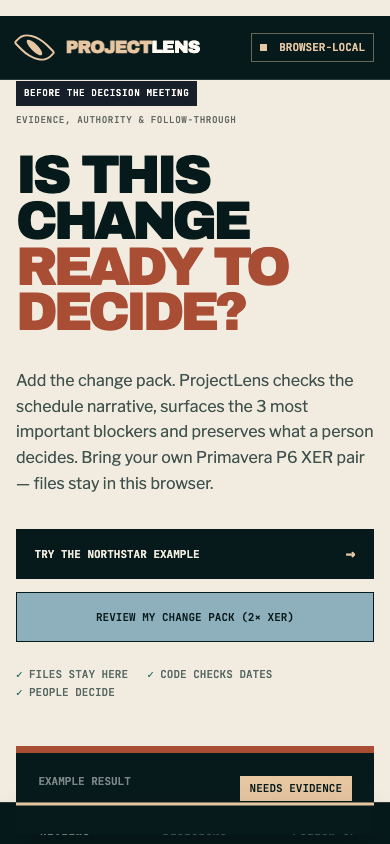
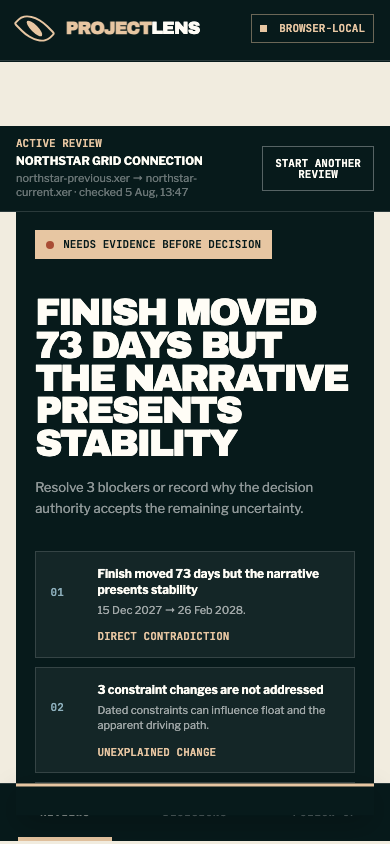
fix: surface cited precedents and repair change-assurance UX
Make the RAG gate readable and default-visible, restore the demo intake step, add retrieve skeletons and a five-step flow, raise dark-card contrast, and stop repeating the human-gate label on every card.

diff --git a/docs/change-assurance.css b/docs/change-assurance.css
@@ -64,7 +64,7 @@ button:focus-visible, a:focus-visible, input:focus-visible, textarea:focus-visib
 .assurance-reveal.delay-1 { animation-delay: .12s; }
 @keyframes assurance-enter { from { opacity: 0; transform: translateY(18px); } to { opacity: 1; transform: translateY(0); } }
 
-.simple-flow { display: grid; grid-template-columns: 1fr auto 1fr auto 1fr auto 1fr; align-items: center; color: var(--assurance-white); background: var(--assurance-ink); border-top: 1px solid rgba(255,255,255,.14); border-bottom: 1px solid rgba(255,255,255,.14); }
+.simple-flow { display: grid; grid-template-columns: 1fr auto 1fr auto 1fr auto 1fr auto 1fr; align-items: center; color: var(--assurance-white); background: var(--assurance-ink); border-top: 1px solid rgba(255,255,255,.14); border-bottom: 1px solid rgba(255,255,255,.14); }
 .simple-flow div { min-height: 110px; display: flex; align-items: center; gap: 1rem; padding: 1.2rem max(2vw,1rem); }
 .simple-flow b { min-width: 36px; min-height: 36px; display: grid; place-items: center; color: var(--assurance-ink); background: var(--assurance-sand); border-radius: 50%; font: 400 1rem/1 "Archivo Black",sans-serif; }
 .simple-flow span { font: 500 0.6875rem/1 "JetBrains Mono",monospace; text-transform: uppercase; }
@@ -112,7 +112,7 @@ button:focus-visible, a:focus-visible, input:focus-visible, textarea:focus-visib
 .blocker { display: grid; grid-template-columns: 42px 1fr auto; gap: .8rem; align-items: center; padding: .9rem; background: rgba(255,255,255,.055); border: 1px solid rgba(255,255,255,.14); }
 .blocker > span { color: var(--assurance-cyan); font: 500 0.6875rem/1 "JetBrains Mono",monospace; }
 .blocker strong { display: block; font-size: .75rem; line-height: 1.35; }
-.blocker small { display: block; margin-top: .3rem; color: rgba(255,255,255,.43); font-size: 0.6875rem; line-height: 1.4; }
+.blocker small { display: block; margin-top: .3rem; color: rgba(255,255,255,.6); font-size: 0.6875rem; line-height: 1.4; }
 .blocker > i { color: var(--assurance-sand); font-style: normal; font: 500 0.6875rem/1 "JetBrains Mono",monospace; text-transform: uppercase; }
 .readiness-actions { display: flex; flex-wrap: wrap; gap: .7rem; }
 .readiness-actions .assurance-primary { color: var(--assurance-ink); background: var(--assurance-sand); border-color: var(--assurance-sand); }
@@ -122,7 +122,7 @@ button:focus-visible, a:focus-visible, input:focus-visible, textarea:focus-visib
 .request-item { min-height: 180px; padding: 1rem; display: flex; flex-direction: column; background: rgba(255,255,255,.05); border: 1px solid rgba(255,255,255,.15); }
 .request-item span { color: var(--assurance-cyan); font: 500 0.6875rem/1 "JetBrains Mono",monospace; text-transform: uppercase; }
 .request-item strong { margin: 1rem 0 .7rem; font-size: .78rem; line-height: 1.4; }
-.request-item small { margin-top: auto; color: rgba(255,255,255,.45); font-size: 0.6875rem; line-height: 1.45; }
+.request-item small { margin-top: auto; color: rgba(255,255,255,.6); font-size: 0.6875rem; line-height: 1.45; }
 .request-controls { display: grid; grid-template-columns: 1fr .55fr auto; gap: .7rem; align-items: end; margin-top: .8rem; padding: 1rem; color: var(--assurance-ink); background: var(--assurance-sand); }
 .request-controls label span,.decision-fields label span { display: block; margin-bottom: .35rem; font: 600 0.6875rem/1 "JetBrains Mono",monospace; text-transform: uppercase; }
 .request-controls input,.decision-fields input,.decision-fields textarea { width: 100%; padding: .75rem; color: var(--assurance-ink); background: var(--assurance-white); border: 1px solid var(--assurance-line); font: 400 .7rem/1.4 "Libre Franklin",sans-serif; }
@@ -156,20 +156,31 @@ button:focus-visible, a:focus-visible, input:focus-visible, textarea:focus-visib
 .evidence-fact small { color: var(--assurance-muted); font-size: 0.6875rem; line-height: 1.45; }
 .comparable-section { padding: 2rem 1rem; }
 .comparable-section h3 { margin: .7rem 0 1.3rem; font: 400 clamp(1.8rem,3vw,3.3rem)/.9 "Archivo Black",sans-serif; letter-spacing: -.05em; text-transform: uppercase; }
-.comparable-cases { display: grid; grid-template-columns: repeat(3,1fr); gap: .65rem; }
+.comparable-cases { display: grid; grid-template-columns: repeat(auto-fit, minmax(260px, 1fr)); gap: .65rem; }
 .comparable-case { min-height: 230px; padding: 1rem; display: flex; flex-direction: column; color: var(--assurance-white); background: var(--assurance-ink); }
+.comparable-case.is-skeleton { min-height: 180px; opacity: .72; pointer-events: none; }
+.comparable-case.is-skeleton strong,
+.comparable-case.is-skeleton p,
+.comparable-case.is-skeleton small { background: rgba(255,255,255,.08); color: transparent; border-radius: 2px; }
+.comparable-case.is-skeleton strong { height: 1.1rem; margin: 1rem 0 .7rem; }
+.comparable-case.is-skeleton p { height: 3.2rem; margin: 0; }
+.comparable-case.is-skeleton small { height: .8rem; margin-top: auto; width: 55%; }
 .comparable-case span { color: var(--assurance-cyan); font: 500 0.6875rem/1 "JetBrains Mono",monospace; text-transform: uppercase; }
 .comparable-case strong { margin: 1rem 0 .7rem; font-size: .78rem; }
 .comparable-case p { color: rgba(255,255,255,.5); font-size: 0.6875rem; line-height: 1.5; }
 .comparable-case small { margin-top: auto; color: var(--assurance-sand); font: 500 0.6875rem/1.3 "JetBrains Mono",monospace; }
 .comparable-case.gate-used { outline: 1px solid var(--assurance-sand); }
 .comparable-case.gate-ignored { opacity: .55; }
-.precedent-reasons, .precedent-evidence { margin: .45rem 0 0; color: rgba(255,255,255,.42) !important; font-size: 0.6875rem !important; }
+.comparable-case.weak-match { outline: 1px dashed rgba(231,198,162,.7); }
+.precedent-reasons, .precedent-evidence { margin: .45rem 0 0; color: rgba(255,255,255,.6) !important; font-size: 0.6875rem !important; }
 .precedent-gate { display: flex; flex-wrap: wrap; gap: .35rem; align-items: center; margin-top: .75rem; }
 .precedent-gate button { border: 0; padding: .35rem .55rem; font: 600 0.6875rem/1 "JetBrains Mono",monospace; text-transform: uppercase; cursor: pointer; background: var(--assurance-cyan); color: var(--assurance-ink); }
 .precedent-gate button[data-gate="ignore"] { background: transparent; color: var(--assurance-white); outline: 1px solid rgba(255,255,255,.35); }
-.precedent-gate i { color: rgba(255,255,255,.55); font: 500 0.6875rem/1 "JetBrains Mono",monospace; font-style: normal; text-transform: uppercase; }
-.precedent-status, .precedent-gate-note { margin: .55rem 0 0; color: rgba(255,255,255,.55); font-size: 0.6875rem; line-height: 1.45; }
+.precedent-gate i { color: rgba(255,255,255,.6); font: 500 0.6875rem/1 "JetBrains Mono",monospace; font-style: normal; text-transform: uppercase; }
+/* status + gate copy sit on the light evidence panel — ink, not ghost white */
+.precedent-status, .precedent-gate-note { margin: .55rem 0 0; color: var(--assurance-ink); font-size: 0.75rem; line-height: 1.5; }
+.precedent-gate-note strong { color: var(--assurance-orange); }
+.precedent-section-gate { margin: .7rem 0 0; padding: .55rem .7rem; color: var(--assurance-ink); background: var(--assurance-sand); font: 600 0.6875rem/1.35 "JetBrains Mono",monospace; text-transform: uppercase; }
 .precedent-summary { margin: .85rem 0; padding: 1.05rem 1.15rem; color: var(--assurance-ink); background: var(--assurance-white); border: 1px solid rgba(255,255,255,.35); border-top: 4px solid var(--assurance-cyan); }
 .precedent-summary span { display: block; color: var(--assurance-orange); font: 600 .6875rem/1 "JetBrains Mono",monospace; text-transform: uppercase; }
 .precedent-summary p { margin: .65rem 0; color: var(--assurance-ink); font-size: .78rem; line-height: 1.55; }
@@ -211,7 +222,7 @@ button:focus-visible, a:focus-visible, input:focus-visible, textarea:focus-visib
   .assurance-hero { grid-template-columns: 1fr 420px; }
   .pack-grid { grid-template-columns: 1fr 1fr; }
   .assurance-narrative { grid-column: 1/-1; min-height: 220px; }
-  .request-list,.comparable-cases { grid-template-columns: 1fr 1fr; }
+  .request-list { grid-template-columns: 1fr 1fr; }
   .decision-panel fieldset { grid-template-columns: 1fr 1fr; }
 }
 
@@ -233,6 +244,7 @@ button:focus-visible, a:focus-visible, input:focus-visible, textarea:focus-visib
   .simple-flow i { display: none; }
   .simple-flow div { min-height: 86px; border-bottom: 1px solid rgba(255,255,255,.12); }
   .pack-intake,.request-panel,.decision-panel { padding: 4rem 1rem; }
+  .request-list,.comparable-cases { grid-template-columns: 1fr; }
   .compact-heading { grid-template-columns: 1fr; gap: 1rem; }
   .compact-heading h2 { font-size: 2.9rem; }
   .pack-grid,.request-list,.comparable-cases { grid-template-columns: 1fr; }

diff --git a/docs/change-assurance.js b/docs/change-assurance.js
@@ -291,6 +291,9 @@ function renderReview(review) {
   renderPrecedentPanel({ loading: true });
   void loadPrecedents(review);
 
+  // keep the differentiator visible — open precedents panel by default after readiness
+  openPrecedentSection({ scroll: false });
+
   $("#packIntake").hidden = true;
   $("#readinessWorkspace").hidden = false;
   $("#requestPanel").hidden = true;
@@ -344,16 +347,34 @@ function buildPrecedentQuery(review) {
   ].filter(Boolean).join("\n\n");
 }
 
+function openPrecedentSection({ scroll = true } = {}) {
+  const evidence = $("#supportingEvidence") || document.querySelector(".supporting-evidence");
+  if (evidence) evidence.open = true;
+  if (scroll) {
+    const target = $("#precedentSection") || evidence;
+    target?.scrollIntoView({ behavior: "smooth", block: "start" });
+  }
+}
+
 function renderPrecedentPanel({ loading = false, offline = false } = {}) {
   const host = $("#comparableCases");
   const summaryHost = $("#precedentSummary");
   const statusHost = $("#precedentStatus");
+  const sectionGate = $("#precedentSectionGate");
   if (!host) return;
 
   if (loading) {
-    host.innerHTML = `<article class="comparable-case"><span>Retrieving</span><strong>Cited precedent search</strong><p>Asking the local RAG sidecar for similar past decisions…</p><small>XER files stay in this browser</small></article>`;
+    // three skeletons so a 3–8s retrieve doesn't look like a broken one-card grid
+    host.innerHTML = [1, 2, 3].map(n => `
+      <article class="comparable-case is-skeleton" aria-hidden="true">
+        <span>Retrieving ${String(n).padStart(2, "0")}</span>
+        <strong>Loading cited precedent</strong>
+        <p>Asking the RAG sidecar for similar past decisions…</p>
+        <small>XER files stay in this browser</small>
+      </article>`).join("");
     if (summaryHost) summaryHost.hidden = true;
-    if (statusHost) statusHost.textContent = "Hybrid retrieve in progress";
+    if (sectionGate) sectionGate.hidden = true;
+    if (statusHost) statusHost.textContent = "Hybrid retrieve in progress — XER stays in this browser.";
     return;
   }
 
@@ -378,9 +399,10 @@ function renderPrecedentPanel({ loading = false, offline = false } = {}) {
     const semanticLabel = Number.isFinite(semantic)
       ? ` · semantic ${semantic.toFixed(2)}${weak ? " · weak" : ""}`
       : "";
+    const gateLabel = gate === "used" ? "Marked use" : gate === "ignored" ? "Marked ignore" : "Pending";
     return `
     <article class="comparable-case gate-${gate}${weak ? " weak-match" : ""}" data-precedent-id="${escapeHtml(item.id)}">
-      <span>${escapeHtml(item.id)} · ${offline ? "Offline fallback" : "Cited precedent"} · ${scoreLabel}${semanticLabel}</span>
+      <span>${escapeHtml(item.id)} · ${offline ? "Offline fallback" : "Cited precedent"} · ${scoreLabel}${semanticLabel}${weak ? " · WEAK" : ""}</span>
       <strong>${escapeHtml(item.title)}</strong>
       <p>${escapeHtml(item.decision)}</p>
       <small>${escapeHtml(item.outcome || "")}</small>
@@ -390,7 +412,7 @@ function renderPrecedentPanel({ loading = false, offline = false } = {}) {
       <div class="precedent-gate">
         <button type="button" data-gate="use" data-id="${escapeHtml(item.id)}">Use</button>
         <button type="button" data-gate="ignore" data-id="${escapeHtml(item.id)}">Ignore</button>
-        <i>${gate === "used" ? "Marked use" : gate === "ignored" ? "Marked ignore" : "Awaiting human gate"}</i>
+        <i>${gateLabel}</i>
       </div>
     </article>`;
   }).join("");
@@ -430,6 +452,7 @@ function updateDecisionGateState() {
   const pending = pendingPrecedentIds();
   const panel = $("#decisionPanel");
   const banner = $("#precedentGateBanner");
+  const sectionGate = $("#precedentSectionGate");
   const submit = $("#decisionForm")?.querySelector('button[type="submit"]');
   const locked = pending.length > 0;
   if (panel) panel.classList.toggle("is-gated-locked", locked);
@@ -437,6 +460,13 @@ function updateDecisionGateState() {
     banner.hidden = !locked;
     if (locked) {
       banner.textContent = `${pending.length} precedent card${pending.length === 1 ? "" : "s"} still need Use or Ignore. Use attaches the case to the decision record; Ignore records that you considered and dismissed it.`;
+    }
+  }
+  if (sectionGate) {
+    // one section-level gate label — not repeated on every card
+    sectionGate.hidden = !locked;
+    if (locked) {
+      sectionGate.textContent = `Awaiting human gate · ${pending.length} card${pending.length === 1 ? "" : "s"} still need Use or Ignore before save.`;
     }
   }
   if (submit) {
@@ -549,6 +579,16 @@ async function loadDemo() {
     assuranceState.files.previous = { name: "northstar-previous.xer", text: previousText };
     assuranceState.files.current = { name: "northstar-current.xer", text: currentText };
     $("#assuranceNarrative").value = narrative;
+    $("#assurancePreviousName").textContent = "northstar-previous.xer";
+    $("#assuranceCurrentName").textContent = "northstar-current.xer";
+    $$(".assurance-file").forEach(card => card.classList.add("loaded"));
+    $("#runAssuranceReview").disabled = false;
+    $("#intakeMessage").textContent = "Northstar demo pack loaded. Checking readiness…";
+    // show step 1 (intake) so the demo path matches the flow diagram, then auto-run
+    $("#packIntake").hidden = false;
+    $("#readinessWorkspace").hidden = true;
+    $("#packIntake").scrollIntoView({ behavior: "smooth", block: "start" });
+    await new Promise(resolve => setTimeout(resolve, 700));
     const previous = parseXer(previousText, assuranceState.files.previous.name);
     const current = parseXer(currentText, assuranceState.files.current.name);
     renderReview(analyseReview(previous, current, narrative));
@@ -691,9 +731,7 @@ function saveDecision(event) {
   if (pending.length) {
     showToast(`Mark Use or Ignore on ${pending.length} precedent card${pending.length === 1 ? "" : "s"} before saving.`);
     updateDecisionGateState();
-    $("#comparableCases")?.scrollIntoView({ behavior: "smooth", block: "center" });
-    const evidence = document.querySelector(".supporting-evidence");
-    if (evidence) evidence.open = true;
+    openPrecedentSection({ scroll: true });
     return;
   }
   const record = {
@@ -759,6 +797,7 @@ function bindEvents() {
   $("#assuranceCurrent").addEventListener("change", event => loadFile("current", event.target.files[0]));
   $("#runAssuranceReview").addEventListener("click", runReview);
   $("#startAnotherReview").addEventListener("click", resetReview);
+  $("#reviewPrecedents")?.addEventListener("click", () => openPrecedentSection({ scroll: true }));
   $("#requestAnswers").addEventListener("click", () => {
     $("#requestPanel").hidden = false;
     $("#requestPanel").scrollIntoView({ behavior: "smooth", block: "start" });
@@ -768,8 +807,7 @@ function bindEvents() {
     updateDecisionGateState();
     const pending = pendingPrecedentIds();
     if (pending.length) {
-      const evidence = document.querySelector(".supporting-evidence");
-      if (evidence) evidence.open = true;
+      openPrecedentSection({ scroll: true });
       showToast(`Mark Use or Ignore on ${pending.length} precedent card${pending.length === 1 ? "" : "s"} before the decision can be saved.`);
     }
     $("#decisionPanel").scrollIntoView({ behavior: "smooth", block: "start" });

diff --git a/docs/change-assurance.html b/docs/change-assurance.html
@@ -6,7 +6,7 @@
   <meta name="description" content="Review a project change pack, identify decision blockers and preserve the human decision and its conditions.">
   <meta name="theme-color" content="#071a1b">
   <meta property="og:title" content="ProjectLens | Project Change Assurance">
-  <meta property="og:description" content="Add the pack. Review the blockers. Record the human decision. Track the conditions.">
+  <meta property="og:description" content="Add the pack. Review blockers. Cite precedents. Record the human decision. Track the conditions.">
   <meta property="og:type" content="website">
   <meta property="og:image" content="https://matthewpaver.github.io/ProjectLens/assets/change-assurance-overview.png">
   <meta name="twitter:card" content="summary_large_image">
@@ -67,14 +67,16 @@
         </aside>
       </section>
 
-      <section class="simple-flow" aria-label="Four-step review workflow">
+      <section class="simple-flow" aria-label="Five-step review workflow">
         <div><b>1</b><span>Add the pack</span></div>
         <i aria-hidden="true">→</i>
         <div><b>2</b><span>Review blockers</span></div>
         <i aria-hidden="true">→</i>
-        <div><b>3</b><span>Record decision</span></div>
+        <div><b>3</b><span>Cite precedents</span></div>
         <i aria-hidden="true">→</i>
-        <div><b>4</b><span>Track conditions</span></div>
+        <div><b>4</b><span>Record decision</span></div>
+        <i aria-hidden="true">→</i>
+        <div><b>5</b><span>Track conditions</span></div>
       </section>
 
       <section class="pack-intake" id="packIntake" hidden aria-labelledby="intakeTitle">
@@ -120,7 +122,8 @@
           <p id="readinessExplanation">Resolve the blockers below or record why the decision authority accepts them.</p>
           <div class="blocker-list" id="blockerList"></div>
           <div class="readiness-actions">
-            <button class="assurance-primary" id="requestAnswers" type="button">Draft questions for the team <span>→</span></button>
+            <button class="assurance-primary" id="reviewPrecedents" type="button">Review cited precedents <span>→</span></button>
+            <button class="assurance-secondary light" id="requestAnswers" type="button">Draft questions for the team</button>
             <button class="assurance-secondary light" id="showDecisionForm" type="button">Record human decision</button>
           </div>
         </article>
@@ -166,13 +169,14 @@
           </form>
         </section>
 
-        <details class="supporting-evidence">
-          <summary><span>View supporting evidence</span><small>Schedule movements, narrative checks & comparable cases</small></summary>
+        <details class="supporting-evidence" id="supportingEvidence" open>
+          <summary><span>Cited precedents & supporting evidence</span><small>Use / Ignore gate · schedule movements · narrative checks</small></summary>
           <div class="evidence-summary" id="evidenceSummary"></div>
-          <div class="comparable-section">
+          <div class="comparable-section" id="precedentSection">
             <div>
               <span>Cited precedent retrieval</span>
               <h3>Has a similar change caused this problem before?</h3>
+              <p id="precedentSectionGate" class="precedent-section-gate" hidden>Awaiting human gate — mark Use or Ignore on every card before the decision can be saved.</p>
               <p id="precedentStatus" class="precedent-status">Run a review to retrieve precedents.</p>
             </div>
             <div id="precedentSummary" class="precedent-summary" hidden></div>

diff --git a/Processing/tests/browser_change_assurance.py b/Processing/tests/browser_change_assurance.py
@@ -28,13 +28,17 @@ def run_desktop(browser):
     assert readiness_status.casefold() == "needs evidence before decision", readiness_status
     assert page.locator("#blockerList .blocker").count() == 3
     assert "73 days" in page.locator("#readinessHeadline").inner_text().casefold()
-    assert page.locator(".supporting-evidence").get_attribute("open") is None
+    # precedents surface by default — the RAG differentiator must not hide in a closed disclosure
+    assert page.locator("#supportingEvidence").get_attribute("open") is not None
+    assert page.get_by_role("button", name="Review cited precedents").is_visible()
 
-    page.locator(".supporting-evidence summary").click()
     assert page.locator("#evidenceSummary .evidence-fact").count() == 6
     # wait for offline fallback or live RAG cards (either is fine in CI)
-    page.wait_for_function("() => document.querySelectorAll('#comparableCases .comparable-case').length >= 3")
+    page.wait_for_function("() => document.querySelectorAll('#comparableCases .comparable-case:not(.is-skeleton)').length >= 3")
     assert page.locator("#comparableCases .comparable-case").count() >= 3
+    # gate label is section-level, not repeated on every card
+    assert page.locator("#precedentSectionGate").is_visible()
+    assert page.locator("#comparableCases .precedent-gate i").first.inner_text().casefold() != "awaiting human gate"
 
     page.get_by_role("button", name="Draft questions for the team").click()
     page.locator("#requestPanel").wait_for(state="visible")

diff --git a/CLAUDE-E2E-REVIEW-PROMPT.md b/CLAUDE-E2E-REVIEW-PROMPT.md
@@ -34,7 +34,7 @@ Also skim: `docs/precedent-rag.md`, prior critique at `/tmp/pl-review/CLAUDE-CRI
 
 ### B — Local full RAG path (required for LLM critique)
 
-**Precondition — check this first.** `grep GEMINI_API_KEY .env` must show a non-empty value. As of this writing it is blank. If it is still blank: **STOP section B, say so in the critique, and do not review the offline fallback as if it were live retrieval.** The fallback path is a hardcoded card set (`docs/change-assurance.js:18`) — judging it as Gemini output is the single easiest way to produce a wrong review.
+**Precondition — check this first.** `grep GEMINI_API_KEY .env` must show a non-empty value. If it is blank: **STOP section B, say so in the critique, and do not review the offline fallback as if it were live retrieval.** The fallback path is a hardcoded card set (`docs/change-assurance.js:18`) — judging it as Gemini output is the single easiest way to produce a wrong review. Confirm which path you are on from the status line, which reports `Mode gemini-hybrid` on the live path.
 
 From `/Users/mattpaver/Desktop/Repos/ProjectLens`:
 ```bash
